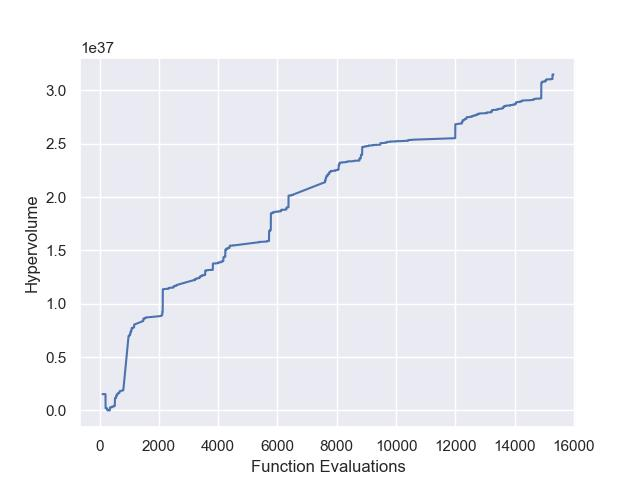
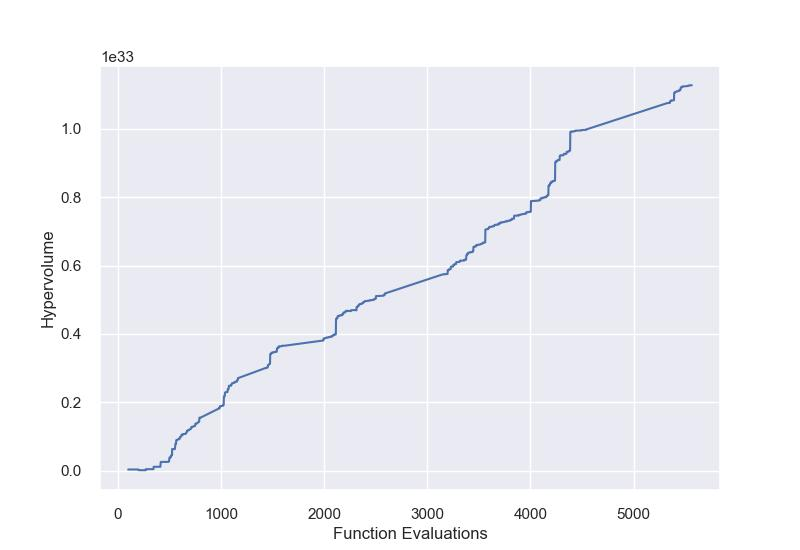
Finished animation dashboard; changed hypervolume refpoint

diff --git a/src/borg_parser/runtime.py b/src/borg_parser/runtime.py
@@ -202,6 +202,25 @@ class BorgRuntimeDiagnostic(BorgRuntimeUtils):
         self.archive_objectives = dict(zip(self.nfe, objectives_ls))
         self.archive_metrics = dict(zip(self.nfe, metrics_ls))
 
+    def normalize_archive_objectives(self):
+        # uses cumulative nadir point to normalize all objective values (max value = 1)
+        norm_obj_dict = {}
+        self.compute_real_nadir()
+        self.compute_real_ideal()
+
+        # normalization constant (denominator)
+        norm = self.max_nadir - self.min_ideal
+
+        # normalize by eqn: (obj[i] - ideal) / (nadir - ideal)
+        for nfe, objs in self.archive_objectives.items():
+            obj_norm_list = []
+            for obj in objs:
+                obj_norm = np.divide(np.subtract(obj, self.min_ideal), norm)
+                obj_norm_list.append(obj_norm)
+            norm_obj_dict[nfe] = obj_norm_list
+
+        self.archive_objectives_norm = norm_obj_dict
+
     def set_decision_names(self, decision_names):
         """Set decision names
         Parameters
@@ -250,10 +269,18 @@ class BorgRuntimeDiagnostic(BorgRuntimeUtils):
         restarts = np.zeros(n)
         pop_size = np.zeros(n)
         archive_size = np.zeros(n)
-        #all_obj_snapshots = np.zeros([n, n_obj])
+        #all_obj_snapshots = np.zeros((n, n_obj))
+        all_obj_snapshots = []
+        self.normalize_archive_objectives()
+
+        # Compute relevant metrics
+        reference = [100, 10000000, 100, 0, 100, 2400000, 2400000, 2400000]
+        self.compute_hypervolume(reference)
+        hypervolume = np.zeros(n)
 
         i = 0
         for val in NFE:
+            # Runtime metrics
             SBX[i] = self.sbx[val]
             DE[i] = self.de[val]
             PCX[i] = self.pcx[val]
@@ -264,20 +291,12 @@ class BorgRuntimeDiagnostic(BorgRuntimeUtils):
             restarts[i] = self.restarts[val]
             pop_size[i] = self.population_size[val]
             archive_size[i] = self.archive_size[val]
-            #all_obj_snapshots[i] = self.archive_objectives[val]
+            # Calculated Metrics
+            hypervolume[i] = self.hypervolume[val]
+            # Objectives: normalize and append to list
+            obj_norm = self.archive_objectives_norm[val]
+            all_obj_snapshots.append(obj_norm)
             i += 1
-        #SBX = np.array(self.sbx[x] for x in NFE)
-        #SBX = np.array(self.sbx[x] for x in NFE_list)
-        # DE = np.array(self.de[x] for x in NFE)
-        # PCX = np.array(self.pcx[x] for x in NFE)
-        # SPX = np.array(self.spx[x] for x in NFE)
-        # UNDX = np.array(self.undx[x] for x in NFE)
-        # UM = np.array(self.um[x] for x in NFE)
-        # improvements = np.array(self.improvements[x] for x in NFE)
-        # restarts = np.array(self.restarts[x] for x in NFE)
-        # pop_size = np.array(self.population_size[x] for x in NFE)
-        # archive_size = np.array(self.archive_size[x] for x in NFE)
-        # all_obj_snapshots = np.array(self.archive_objectives[x] for x in NFE)
 
         runtime_output = {'NFE': NFE,
                           #'Elapsed Time': Elapsed_time,
@@ -291,14 +310,15 @@ class BorgRuntimeDiagnostic(BorgRuntimeUtils):
                           'Restarts': restarts,
                           'Population Size': pop_size,
                           'Archive Size': archive_size,
+                          'Hypervolume': hypervolume,
                           # #'Mutation Index': mutation_idx,
-                          #'Objectives': all_obj_snapshots
+                          'Objectives': all_obj_snapshots
         }
 
         return runtime_output
 
 
-    def compute_hypervolume(self, reference_point):
+    def compute_hypervolume(self, reference_point=None):
         """Compute hypervolumes
         Parameters
         ----------
@@ -308,6 +328,9 @@ class BorgRuntimeDiagnostic(BorgRuntimeUtils):
         """
         # Setup
         hypervolume_dict = {}
+        if reference_point is None:
+            self.compute_real_nadir()
+            reference_point = np.add(self.max_nadir, abs(self.max_nadir * 0.05)) # offset by 5% to ensure strictly greater than other points
 
         for nfe, objs in self.archive_objectives.items():
             # Compute hypervolume
@@ -326,24 +349,28 @@ class BorgRuntimeDiagnostic(BorgRuntimeUtils):
         self.hypervolume = hypervolume_dict
 
     def compute_real_nadir(self):
-        """Compute realized nadir point (max of each objective value in set of solutions)
-        # see Blank and Deb 2020 for use of this metric as MOEA termination criterion
+        """Compute realized nadir points (max of each objective value in set of solutions)
+        Stores values in a dictionary of Lists of objective values at nadir for each NFE,
+        Also stores lis max objective values at any nadir for all NFEs (useful for plotting normalization)
+        see Blank and Deb 2020 for use of realized nadir as part of MOEA termination criterion
         Parameters
         ----------
         """
         # Setup
-        nadir_dict = {}
+        max_nadir = np.full(self.n_objectives, -20000000)
+        nadir_points_dict = {}
 
         for nfe, objs in self.archive_objectives.items():
-            # Compute realized nadir point.
+            # Compute realized nadir point using pygmo refpoint()
             hv = pygmo.hypervolume(objs)
             nadir = hv.refpoint()
-            nadir_val = max(nadir)
 
-            # Store value
-            nadir_dict[nfe] = nadir_val
+            # Store values
+            nadir_points_dict[nfe] = nadir
+            max_nadir[max_nadir < nadir] = nadir[max_nadir < nadir]
 
-        self.real_nadir = nadir_dict
+        self.max_nadir = max_nadir
+        self.nadir_points = nadir_points_dict
 
     def compute_real_ideal(self):
         """Compute realized ideal point (min of each objective value in set of solutions)
@@ -353,16 +380,17 @@ class BorgRuntimeDiagnostic(BorgRuntimeUtils):
         """
         # Setup
         ideal_dict = {}
+        min_ideal = np.full(self.n_objectives, 10000000)
 
         for nfe, objs in self.archive_objectives.items():
-            # Compute realized nadir point
-            #nadir = pygmo.nadir(objs)
+            # Compute realized ideal point
             ideal = pygmo.ideal(objs)
-            ideal_val = max(ideal)
 
             # Store value
-            ideal_dict[nfe] = ideal_val
+            ideal_dict[nfe] = ideal
+            min_ideal[min_ideal > ideal] = ideal[min_ideal > ideal]
 
+        self.min_ideal = min_ideal
         self.real_ideal = ideal_dict
 
     def compute_extreme_pt_changes(self):
@@ -480,7 +508,7 @@ class BorgRuntimeDiagnostic(BorgRuntimeUtils):
 
         return fig
 
-    def plot_hypervolume(self, reference_point):
+    def plot_hypervolume(self, reference_point=None):
         """
         Plot hypervolume over the search
         Parameters

diff --git a/processBorgRW.py b/processBorgRW.py
@@ -8,7 +8,7 @@ import visualization_functions
 
 def main():
     # Change path name to your desired runtime file to analyze
-    path_to_runtime = borg_parser.datasets.BorgRW_data('data/T3_FE20000_allC_8Traces_partial15300/RunTime.Parsable.txt')
+    path_to_runtime = borg_parser.datasets.BorgRW_data('data/T3_FE20000_allC_8Traces_partial5.31/RunTime.Parsable.txt')
 
     decision_names = ["Mead_Surplus_DV Row cat 0",
                       "Mead_Surplus_DV Row cat 1",
@@ -90,16 +90,16 @@ def main():
     ################### Diagnostic Dashboard ##############################
 
     # Get snapshots of run at desired frequency (since our runtime has every FE) - added by EStark
-    # For 20,000 FEs, every 100 FEs should produce nice animation
-
-    # Number of runtime intervals is approximate, since the Runtime file doesn't actually output every FE
+    # Number of intervals is approximate, since Runtime file doesn't have predictable FE intervals (due to restarts etc)
     # This code uses floor division for index sampling interval to get close to number of desired intervals
-    snaps = runtime.get_snapshots(200)
-    #objs = snaps['Objectives']
+    n_intervals = 200
+    snaps = runtime.get_snapshots(n_intervals)
+    objs = snaps['Objectives']
+    HV = snaps['Hypervolume']
 
     # create the figure object to store subplots
     fig = plt.figure(figsize=(12, 12))
-    gs = fig.add_gridspec(5, 2)
+    gs = fig.add_gridspec(6, 2)
 
     # information axis
     text_ax = fig.add_subplot(gs[0:2, 0])
@@ -112,6 +112,9 @@ def main():
 
     # HV axis
     HV_ax = fig.add_subplot(gs[3, :])
+
+    # Change in ideal axis
+    # ideal_ax = fig.add_subplot(gs[4, :])
 
     # operator probabilities
     op_ax = fig.add_subplot(gs[4, :])
@@ -127,8 +130,8 @@ def main():
         visualization_functions.plot_text(text_ax, 'Baseline', 8, snaps, i)
         #visualization_functions.plot_3Dscatter(scatter_ax, objs_3, i)
         visualization_functions.plot_operators(op_ax, snaps, total_NFE, i)
-        #visualization_functions.plot_metric(HV_ax, HV, "Hypervolume", seed0['NFE'], len(seed0['NFE']) * 25, 1, i)
-        #visualization_functions.plot_paxis(px_ax, objs, i)
+        visualization_functions.plot_metric(HV_ax, HV, "Hypervolume", snaps['NFE'], total_NFE, HV[-1], i)
+        visualization_functions.plot_paxis(px_ax, objs, i, objective_names)
         fig.tight_layout()
         camera.snap()
 
@@ -136,32 +139,32 @@ def main():
     animation = camera.animate()
 
     animation.save('BorgRW_runtime.gif', writer='PillowWriter')
-##################################################################################################
+################################ End Animations #########################################
 
-    # # Improvements
-    # fig = runtime.plot_improvements()
-    # fig.savefig("borgRW_improvements.jpg")
-    #
-    # # Objectives
-    # obj_plot = runtime.plot_objectives_parcoord()
-    # obj_plot.to_html("borgRW_objectives.html")
-    #
-    # # Decisions
-    # mead_plot, powell_plot = runtime.plot_decisions_parcoord()
-    # mead_plot.to_html('borgRW_mead_decisions.html')
-    # powell_plot.to_html('borgRW_powell_decisions.html')
-    #
-    # # Extreme Point metrics
-    # nadir_plot = runtime.plot_real_nadir_change()
-    # nadir_plot.savefig('nadir_change.jpg')
-    # ideal_plot = runtime.plot_real_ideal_change()
-    # ideal_plot.savefig('ideal_change.jpg')
-    #
-    # # Hypervolume
-    # #reference = [0, 0, 0, -60000000, 0, 0, 0, 0]
-    # reference = [100, 10000000, 100, 0, 100, 2400000, 2400000, 2400000]
-    # hv_plot = runtime.plot_hypervolume(reference)
-    # hv_plot.savefig("borgRW_hypervolume.jpg")
+    # Improvements
+    fig = runtime.plot_improvements()
+    fig.savefig("borgRW_improvements.jpg")
+
+    # Objectives
+    obj_plot = runtime.plot_objectives_parcoord()
+    obj_plot.to_html("borgRW_objectives.html")
+
+    # Decisions
+    mead_plot, powell_plot = runtime.plot_decisions_parcoord()
+    mead_plot.to_html('borgRW_mead_decisions.html')
+    powell_plot.to_html('borgRW_powell_decisions.html')
+
+    # Extreme Point metrics
+    nadir_plot = runtime.plot_real_nadir_change()
+    nadir_plot.savefig('nadir_change.jpg')
+    ideal_plot = runtime.plot_real_ideal_change()
+    ideal_plot.savefig('ideal_change.jpg')
+
+    # Hypervolume
+    #reference = [0, 0, 0, -60000000, 0, 0, 0, 0]
+    #reference = [100, 10000000, 100, 0, 100, 2400000, 2400000, 2400000]
+    hv_plot = runtime.plot_hypervolume()
+    hv_plot.savefig("borgRW_hypervolume.jpg")
 
 if __name__ == '__main__':
     main()

diff --git a/src/visualization_functions.py b/src/visualization_functions.py
@@ -102,7 +102,7 @@ def plot_metric(ax, metric, metric_name, NFE, total_NFE, ymax, i):
     ax.set_ylabel(metric_name)
 
 
-def plot_paxis(ax, objs, i):
+def plot_paxis(ax, objs, i, obj_names):
     """
 
     Plots a parallel axis plot of objectives
@@ -113,17 +113,20 @@ def plot_paxis(ax, objs, i):
     Parameter i: snapshot number
 
     """
-
-    for j in range(len(objs[i][:, 0])):
-        ys = objs[i][j, :]
+    for pol in objs[i]:
+        ys = pol
         xs = range(len(ys))
         ax.plot(xs, ys, c='b', alpha=.8, linewidth=.5)
+    # for j in range(len(objs[i][:, 0])):
+    #     ys = objs[i][j, :]
+    #     xs = range(len(ys))
+    #     ax.plot(xs, ys, c='b', alpha=.8, linewidth=.5)
 
     ax.set_ylabel('Objective val \n $\longleftarrow$ Preference', size=12)
-    ax.set_ylim([0, 2])
-    ax.set_xticks([0, 1, 2])
-    ax.set_xticklabels(['Obj 1', 'Obj 2', 'Obj 3'], fontsize=12)
-    ax.set_xlim([0, len(objs[i][0, :]) - 1])
+    #ax.set_ylim([0, 2])
+    ax.set_xticks([0, 1, 2, 3, 4, 5, 6, 7])
+    ax.set_xticklabels(obj_names, fontsize=12)
+    ax.set_xlim([0, 7])
 
 
 def plot_Radvis(objectives, ax, name):
